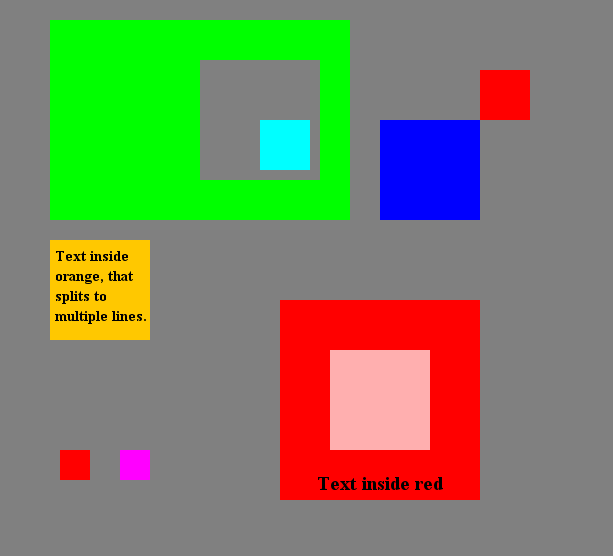
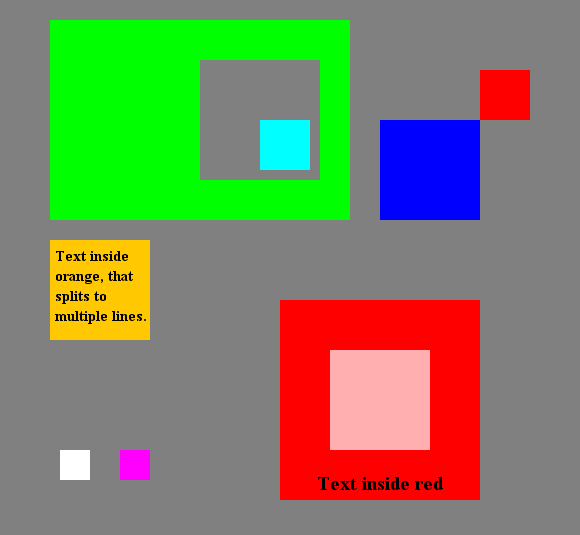
Added image resizing and small fix to example scene.

diff --git a/src/main/java/uilibrary/animation/ImageLoader.java b/src/main/java/uilibrary/animation/ImageLoader.java
@@ -1,5 +1,7 @@
 package uilibrary.animation;
 
+import java.awt.Graphics2D;
+import java.awt.RenderingHints;
 import java.awt.image.BufferedImage;
 import java.io.File;
 import java.io.IOException;
@@ -164,4 +166,33 @@ public class ImageLoader {
 		}
 		return frames;
 	}
+	
+	/**
+	 * Resizes the image with a multiplier.
+	 * @param img
+	 * @param multiplier
+	 * @return 
+	 */
+	public static BufferedImage resizeImage(BufferedImage img, double multiplier) {
+		int newWidth = (int) (img.getWidth() * multiplier);
+		int newHeight = (int) (img.getHeight() * multiplier);
+        return resizeImage(img, newWidth, newHeight);
+    }
+	
+	/**
+	 * Resizes the image to specific dimensions.
+	 * @param img
+	 * @param newWidth
+	 * @param newHeight
+	 * @return 
+	 */
+	public static BufferedImage resizeImage(BufferedImage img, int newWidth, int newHeight) {
+        BufferedImage resizedImage = new BufferedImage(newWidth, newHeight, img.getType());
+        Graphics2D g = resizedImage.createGraphics();
+        g.setRenderingHint(RenderingHints.KEY_INTERPOLATION, RenderingHints.VALUE_INTERPOLATION_BILINEAR);
+		
+        g.drawImage(img, 0, 0, newWidth, newHeight, null);
+        g.dispose();
+        return resizedImage;
+    }
 }

diff --git a/src/main/java/uilibrary/example/ExampleScene.java b/src/main/java/uilibrary/example/ExampleScene.java
@@ -33,7 +33,7 @@ public class ExampleScene {
 		
 		//White box of size 30x30. Even shorter way to specify the location.
 		//Top left corner will be at point (60, 450).
-		Box whiteBox = new Box(30, 30, Color.RED);
+		Box whiteBox = new Box(30, 30, Color.WHITE);
 		whiteBox.arrange(60, 450).align(TOP, LEFT);
 		boxes.add(whiteBox);
 		

diff --git a/src/main/java/uilibrary/Window.java b/src/main/java/uilibrary/Window.java
@@ -294,6 +294,10 @@ public class Window extends JFrame {
 		super.setLocation(dx, dy);
 	}
 	
+	public final void toggleFullscreen() {
+		setFullscreen(!fullscreen, 0);
+	}
+	
 	public final void setFullscreen(boolean fullscreen) {
 		setFullscreen(fullscreen, 0);
 	}

diff --git a/src/main/java/uilibrary/elements/TextElement.java b/src/main/java/uilibrary/elements/TextElement.java
@@ -94,6 +94,9 @@ public class TextElement extends Element {
 	
 	public TextElement setFontSize(float size) {
 		font = font.deriveFont(size);
+		if (!multiline) {
+			updateSize();
+		}
 		return this;
 	}
 	
